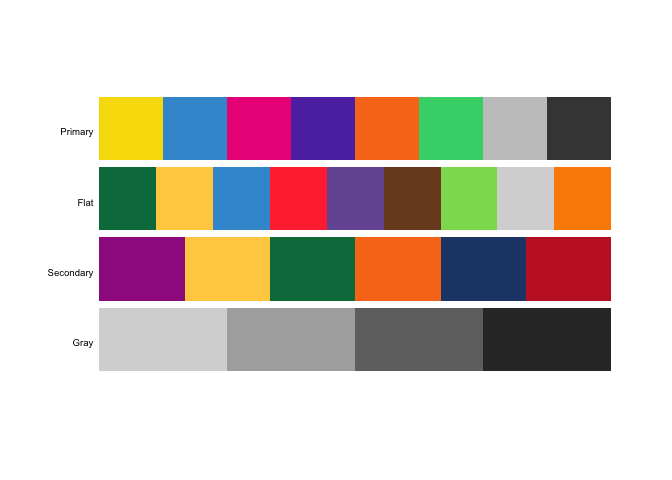
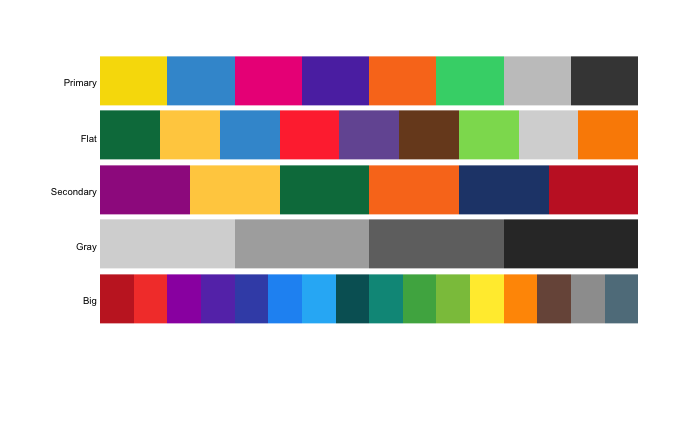
big palette addition and readme edits

diff --git a/README.md b/README.md
@@ -25,7 +25,7 @@ Palettes
 --------
 
 ``` r
-pal.bands(ppalette,mpalette,spalette,gpalette,labels = c('Primary','Flat','Secondary','Gray'))
+pal.bands(ppalette,mpalette,spalette,gpalette,bpalette,labels = c('Primary','Flat','Secondary','Gray','Big'))
 ```
 
 ![](README_files/figure-markdown_github/unnamed-chunk-2-1.png)
